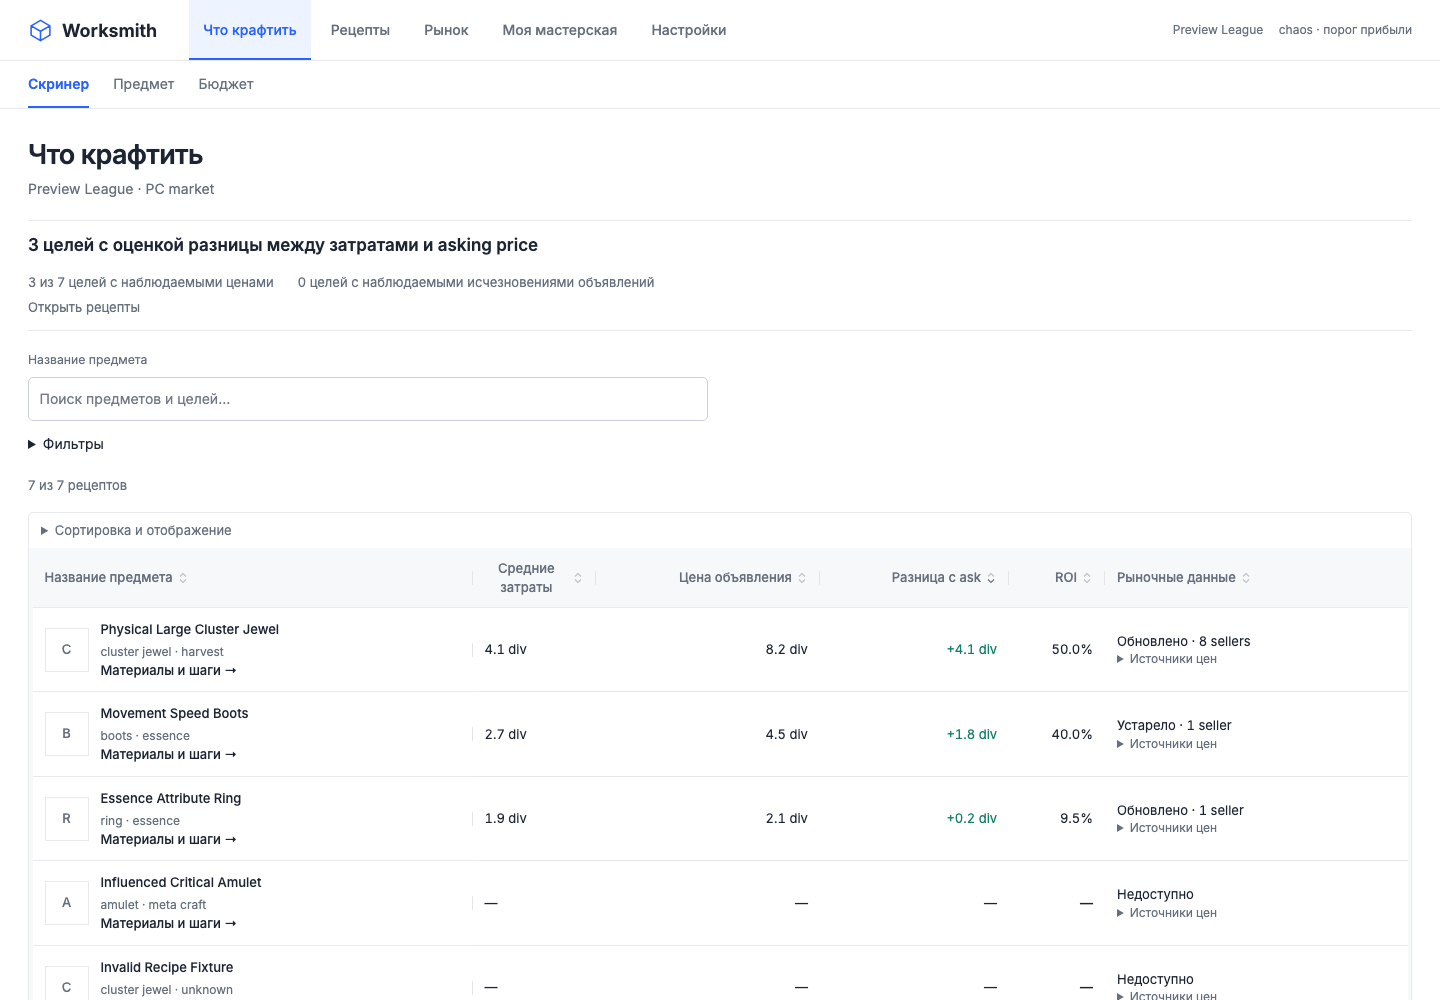
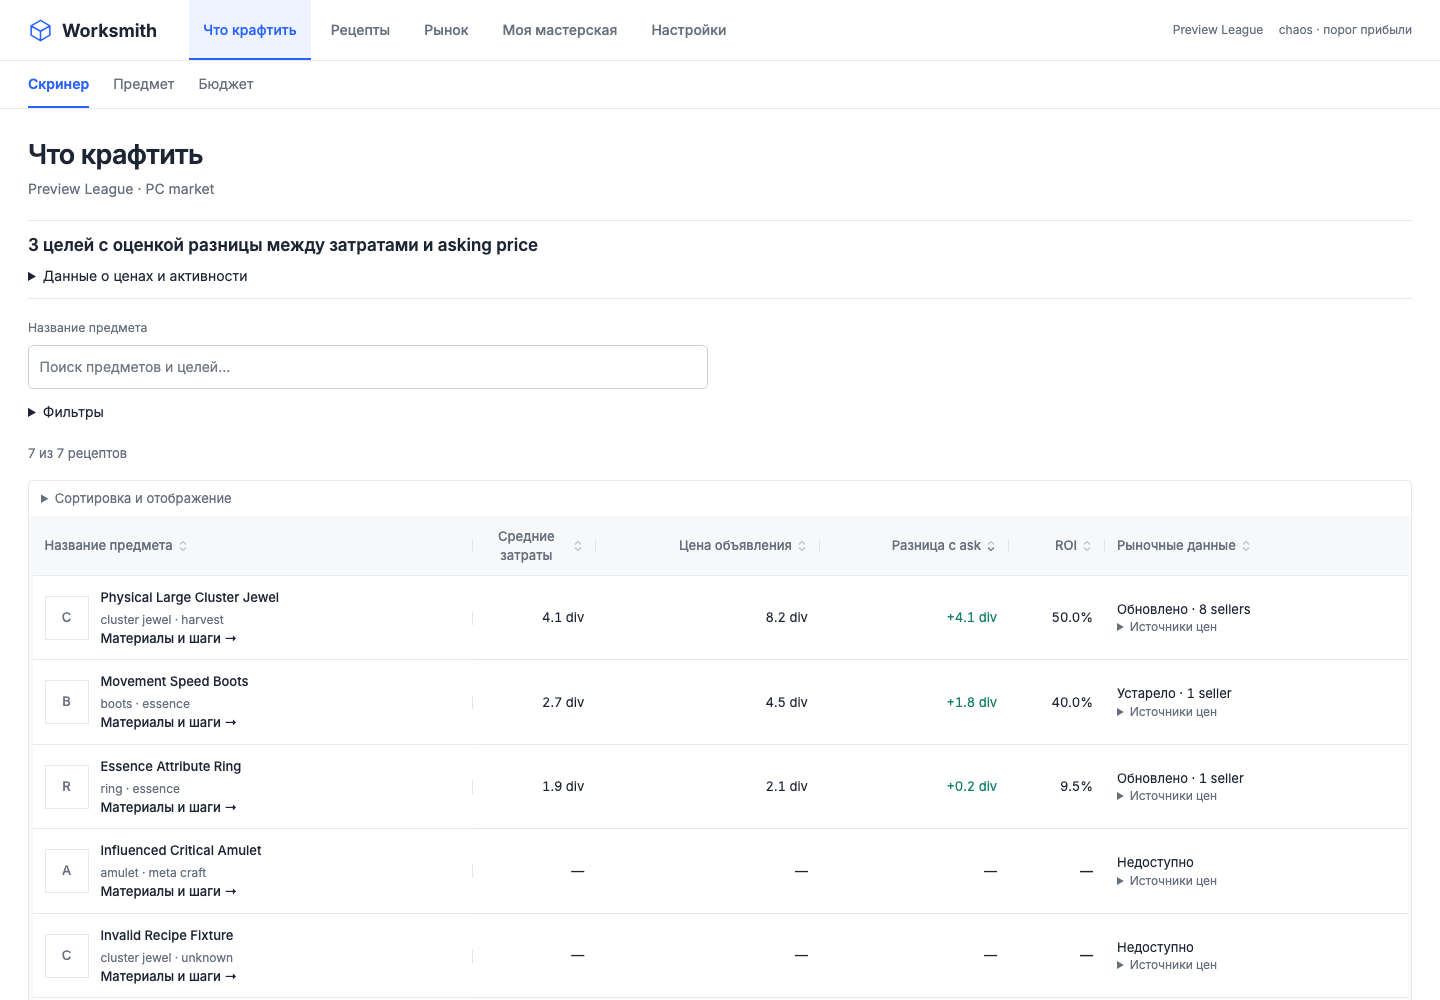
fix(web): complete review regressions and mobile actions

diff --git a/tests/light/review-probes.spec.ts b/tests/light/review-probes.spec.ts
@@ -60,7 +60,7 @@ test('first mobile target exposes its observed price and action', async ({
       .getByRole('navigation', { name: 'Основные разделы', exact: true })
       .getByRole('link', { name: 'Настройки', exact: true }),
   ).toBeInViewport();
-  await expect(row.locator('.craft-table__steps')).toBeInViewport();
+  await expect(row.locator('.craft-table__steps')).toBeInViewport({ ratio: 1 });
 });
 
 test('choosing a target for an empty budget stays in the budget journey', async ({
@@ -309,4 +309,24 @@ test('mobile market rows expose the same observed price beside their identity', 
   await expect(inline.locator('.money')).toHaveText(
     await first.locator('[data-label="Цена объявления"] .money').innerText(),
   );
+});
+
+test('the threshold currency follows section links and an explicit change clears the legacy unit', async ({
+  page,
+}) => {
+  await page.goto('/?currency=divine');
+  const currency = page.getByRole('combobox', {
+    name: 'Валюта оценки',
+    exact: true,
+  });
+  await page.getByText('Фильтры', { exact: true }).click();
+  await currency.selectOption('chaos');
+  await expect(page).not.toHaveURL(/currency=divine/);
+  await currency.selectOption('divine');
+  await page
+    .getByRole('navigation', { name: 'Основные разделы', exact: true })
+    .getByRole('link', { name: 'Рецепты', exact: true })
+    .click();
+  await expect(page).toHaveURL(/profitCurrency=divine/);
+  await expect(page.locator('.workspace-context')).toContainText('divine');
 });

diff --git a/apps/web/src/CatalogTable.tsx b/apps/web/src/CatalogTable.tsx
@@ -242,18 +242,18 @@ export function CatalogTable({
                               Цена объявления:{' '}
                               <Money price={observedAsk(entry)} />
                             </span>
-                            <small
-                              className="mobile-price-note"
-                              aria-hidden="true"
-                            >
-                              Цена объявления, не продажа
-                            </small>
                             <Link
                               className="craft-table__steps"
                               to={`/recipes/${recipe.id}`}
                             >
                               Материалы и шаги →
                             </Link>
+                            <small
+                              className="mobile-price-note"
+                              aria-hidden="true"
+                            >
+                              Цена объявления, не продажа
+                            </small>
                             {readiness &&
                             isSingleSellerHypothesis(readiness) ? (
                               <small>Гипотеза цены одного продавца</small>

diff --git a/apps/web/src/CatalogOverview.tsx b/apps/web/src/CatalogOverview.tsx
@@ -23,13 +23,16 @@ export function CatalogOverview({ entries }: { entries: CatalogEntry[] }) {
             ? 'Цены доступны. Оценка прибыли пока не подтверждена.'
             : 'Актуальных цен объявлений пока нет.'}
       </h2>
-      <p className="catalog-decision__facts">
-        <span>
-          {priced} из {entries.length} целей с наблюдаемыми ценами
-        </span>
-        <span>{active} целей с наблюдаемыми исчезновениями объявлений</span>
-        <Link to="/recipes">Открыть рецепты</Link>
-      </p>
+      <details>
+        <summary>Данные о ценах и активности</summary>
+        <p className="catalog-decision__facts">
+          <span>
+            {priced} из {entries.length} целей с наблюдаемыми ценами
+          </span>
+          <span>{active} целей с наблюдаемыми исчезновениями объявлений</span>
+          <Link to="/recipes">Открыть рецепты</Link>
+        </p>
+      </details>
     </section>
   );
 }

diff --git a/apps/web/src/CraftRiskSection.tsx b/apps/web/src/CraftRiskSection.tsx
@@ -423,10 +423,10 @@ export function CraftRiskSection({ recipeId }: { recipeId: string }) {
             )}
             <h3>Бюджет выбранной цели</h3>
             <p className="catalog-price-note">
-              Один целевой предмет, a fixed number of method runs, and a number
-              of successful target items have different bankroll distributions.
-              A method run ends in a terminal outcome and includes its declared
-              retries; it is not one currency roll.
+              Один целевой предмет, фиксированное число запусков метода и
+              несколько готовых предметов требуют разного бюджета. Запуск метода
+              включает предусмотренные повторы и заканчивается итоговым исходом;
+              это не одно применение валюты.
             </p>
             <form onSubmit={startRisk} className="craft-risk__simulation">
               <fieldset

diff --git a/apps/web/src/workspace.css b/apps/web/src/workspace.css
@@ -1,4 +1,11 @@
 @layer utilities {
+  .craft-table td[data-label='Средние затраты'],
+  .factory-table :is(th, td):nth-child(n + 3),
+  .recipe-market__table :is(th, td):nth-child(2),
+  .recipe-market__table td[data-label='Ask change'],
+  .recipe-market__table td[data-label='Listing exits · 24h window'] {
+    text-align: right;
+  }
   .craft-table thead .button {
     width: 100%;
     gap: 4px;
@@ -317,6 +324,10 @@
     }
   }
   @media (max-width: 800px) {
+    .workspace-context {
+      display: block;
+      margin: 0 0 8px auto;
+    }
     .workspace-header {
       flex-wrap: wrap;
       gap: 0;
@@ -358,6 +369,11 @@
       display: block;
       margin: 0 0 8px auto;
     }
+    .craft-table__steps {
+      display: inline-flex;
+      align-items: center;
+      min-height: 44px;
+    }
     .catalog-heading {
       margin-bottom: 12px;
     }
@@ -372,6 +388,9 @@
       padding-inline: 16px;
     }
     .workspace-tabs {
+      flex-wrap: wrap;
+      gap: 0 20px;
+      overflow: visible;
       padding-inline: 16px;
     }
     .workspace-shell .app-main {

diff --git a/apps/web/src/materialPlanModel.test.ts b/apps/web/src/materialPlanModel.test.ts
@@ -167,3 +167,34 @@ it('exports plain TSV cells without spreadsheet formulas or extra rows', () => {
     planTsv([['=cmd', '+item', '-item', '@item', 'Имя\tматериала\n', '1.25']]),
   ).toBe("'=cmd\t'+item\t'-item\t'@item\tИмя материала \t1.25");
 });
+
+it('fills an untouched unknown price when a quote becomes available', () => {
+  const missing = [
+    {
+      id: 'x',
+      name: 'x',
+      quantity: 1,
+      price: null,
+      currency: null,
+      capturedAt: null,
+    },
+  ];
+  const draft = initialPlan(missing);
+  expect(draft.rows.x!.origin).toBe('market');
+  const next = refreshPlanPrices(draft, [
+    {
+      ...missing[0]!,
+      price: 5,
+      currency: 'divine',
+      capturedAt: '2026-11-17T10:00:00Z',
+    },
+  ]);
+  expect(next.rows.x).toEqual({
+    needed: '1',
+    owned: '0',
+    price: '5',
+    currency: 'divine',
+    origin: 'market',
+    capturedAt: '2026-11-17T10:00:00Z',
+  });
+});

diff --git a/apps/web/src/FactoryPage.tsx b/apps/web/src/FactoryPage.tsx
@@ -148,7 +148,7 @@ export function FactoryPage() {
       .catch((failure) => {
         if (active)
           setError(
-            `Owner access required for Моя мастерская. ${factoryErrorMessage(failure)}`,
+            `Для мастерской нужен доступ владельца. ${factoryErrorMessage(failure)}`,
           );
       });
     return () => {
@@ -733,7 +733,7 @@ export function FactoryPage() {
       ) : null}
       {view === 'batch' && !selectedId ? (
         <StatusPanel tone="info" title="Выберите партию">
-          Откройте партию из списка ниже, чтобы увидеть материалы, события и
+          Откройте партию из списка выше, чтобы увидеть материалы, события и
           результат.
         </StatusPanel>
       ) : null}

diff --git a/apps/web/src/workspaceNavigation.test.tsx b/apps/web/src/workspaceNavigation.test.tsx
@@ -13,7 +13,7 @@ describe('workspace navigation context', () => {
     const href = workspaceHref(
       '/market?view=history',
       '/recipes/stale-boots',
-      '?recipe=old&league=Covens&currency=divine&method=essence&range=7d&search=boots&batch=old',
+      '?recipe=old&league=Covens&currency=divine&profitCurrency=divine&method=essence&range=7d&search=boots&batch=old',
     );
     const params = new URL(href, 'https://test.invalid').searchParams;
     expect(Object.fromEntries(params)).toEqual({
@@ -21,6 +21,7 @@ describe('workspace navigation context', () => {
       recipe: 'stale-boots',
       league: 'Covens',
       currency: 'divine',
+      profitCurrency: 'divine',
       range: '7d',
     });
     expect(workspaceHref('/recipes/new', '/recipes/old', '?recipe=old')).toBe(

diff --git a/tests/browser/two-methods.spec.ts b/tests/browser/two-methods.spec.ts
@@ -23,9 +23,15 @@ test('ranks two priced methods and shows both profits on the homepage', async ({
   ];
   for (const [index, { path, profit }] of rankedMethods.entries()) {
     const row = rows.nth(index);
-    await expect(row.getByRole('link')).toHaveAttribute(
+    await expect(row.getByRole('rowheader').getByRole('link')).toHaveAttribute(
       'href',
       `${path}?recipe=${path.split('/').at(-1)}`,
+    );
+    await expect(
+      row.getByRole('link', { name: 'План материалов', exact: true }),
+    ).toHaveAttribute(
+      'href',
+      `${path}?view=materials&recipe=${path.split('/').at(-1)}`,
     );
     const cells = row.getByRole('cell');
     await expect(cells.nth(2)).toHaveText(profit);

diff --git a/apps/web/src/catalog.test.ts b/apps/web/src/catalog.test.ts
@@ -318,3 +318,18 @@ describe('recipe catalog search and item type filters', () => {
     ).toEqual([targets[1]]);
   });
 });
+
+it('reads the actual threshold currency from current or legacy context without losing an explicit chaos selection', () => {
+  expect(
+    readCatalogFilters(new URLSearchParams('currency=divine')).profitCurrency,
+  ).toBe('divine');
+  expect(
+    readCatalogFilters(
+      new URLSearchParams('currency=divine&profitCurrency=chaos'),
+    ).profitCurrency,
+  ).toBe('chaos');
+  expect(
+    readCatalogFilters(new URLSearchParams('view=screener&catalogView=priced'))
+      .view,
+  ).toBe('priced');
+});

diff --git a/apps/web/src/MaterialPlan.tsx b/apps/web/src/MaterialPlan.tsx
@@ -232,7 +232,9 @@ export function MaterialPlan({
                       {row.currency ?? 'Валюта неизвестна'} ·{' '}
                       {row.origin === 'manual'
                         ? 'Ручная цена'
-                        : 'Рыночная цена'}
+                        : row.price
+                          ? 'Рыночная цена'
+                          : 'Цена источника неизвестна'}
                     </small>
                     <small>
                       {row.capturedAt

diff --git a/apps/web/src/catalog.ts b/apps/web/src/catalog.ts
@@ -128,7 +128,9 @@ export function readCatalogFilters(params: URLSearchParams): CatalogFilters {
     ...(direction === 'asc' || direction === 'desc' ? { direction } : {}),
     minProfit: params.get('minProfit') ?? '',
     profitCurrency:
-      params.get('profitCurrency') === 'divine' ? 'divine' : 'chaos',
+      (params.get('profitCurrency') ?? params.get('currency')) === 'divine'
+        ? 'divine'
+        : 'chaos',
     minRoi: params.get('minRoi') ?? '',
   };
 }
